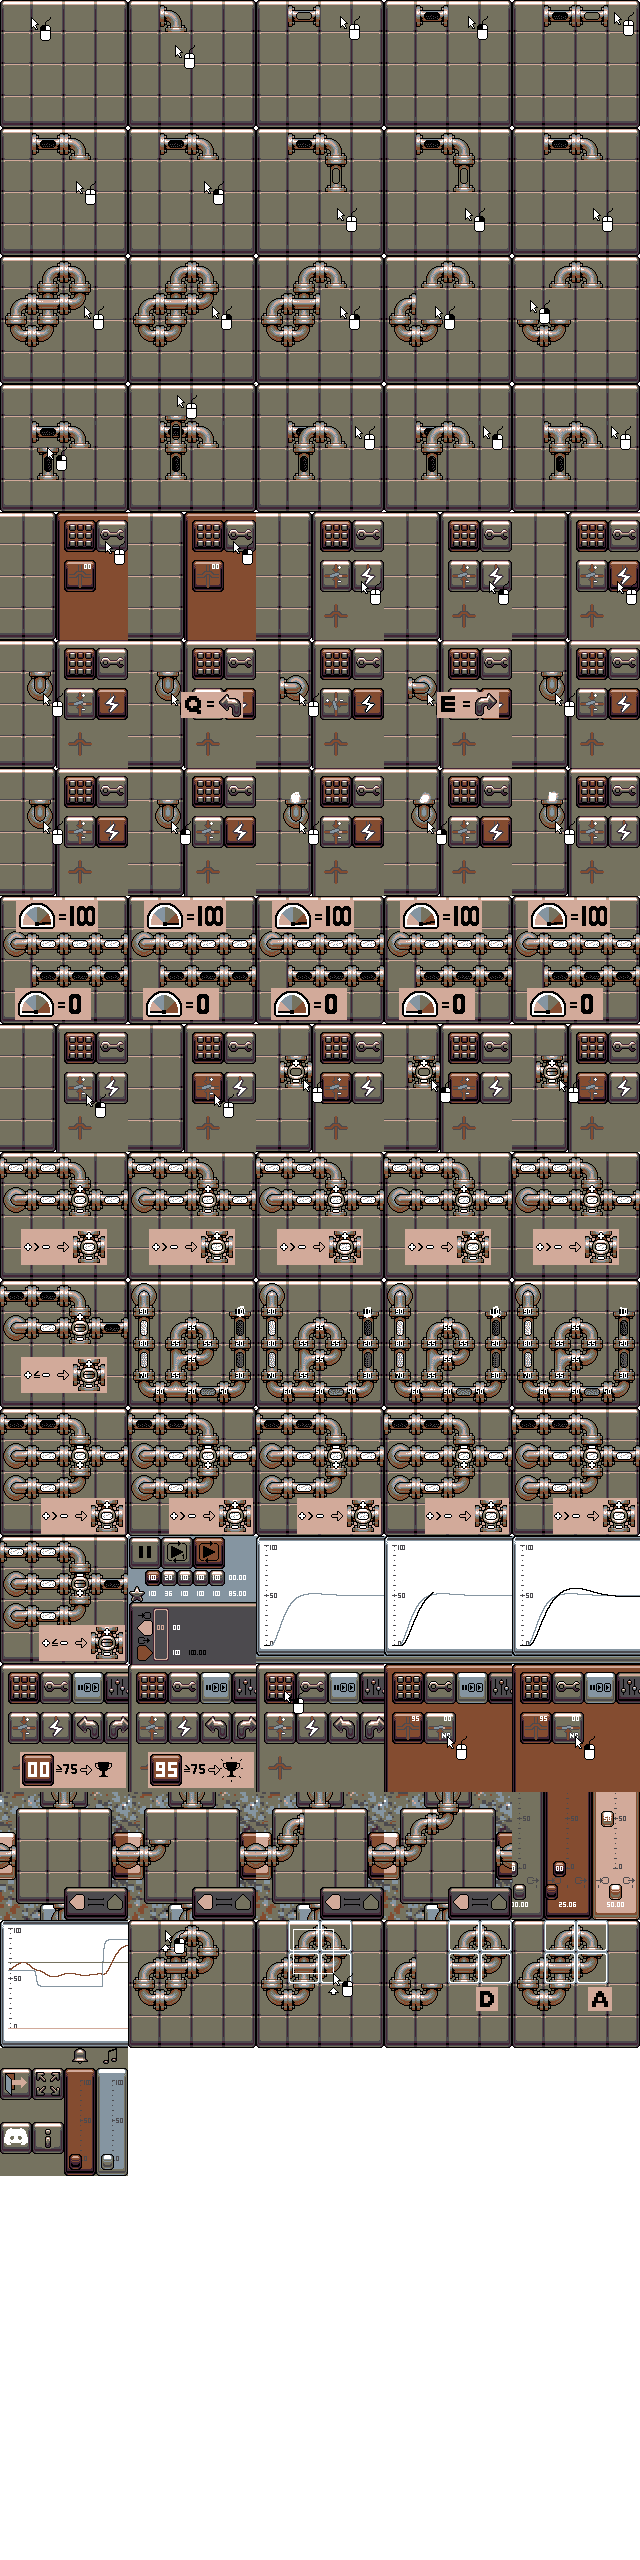
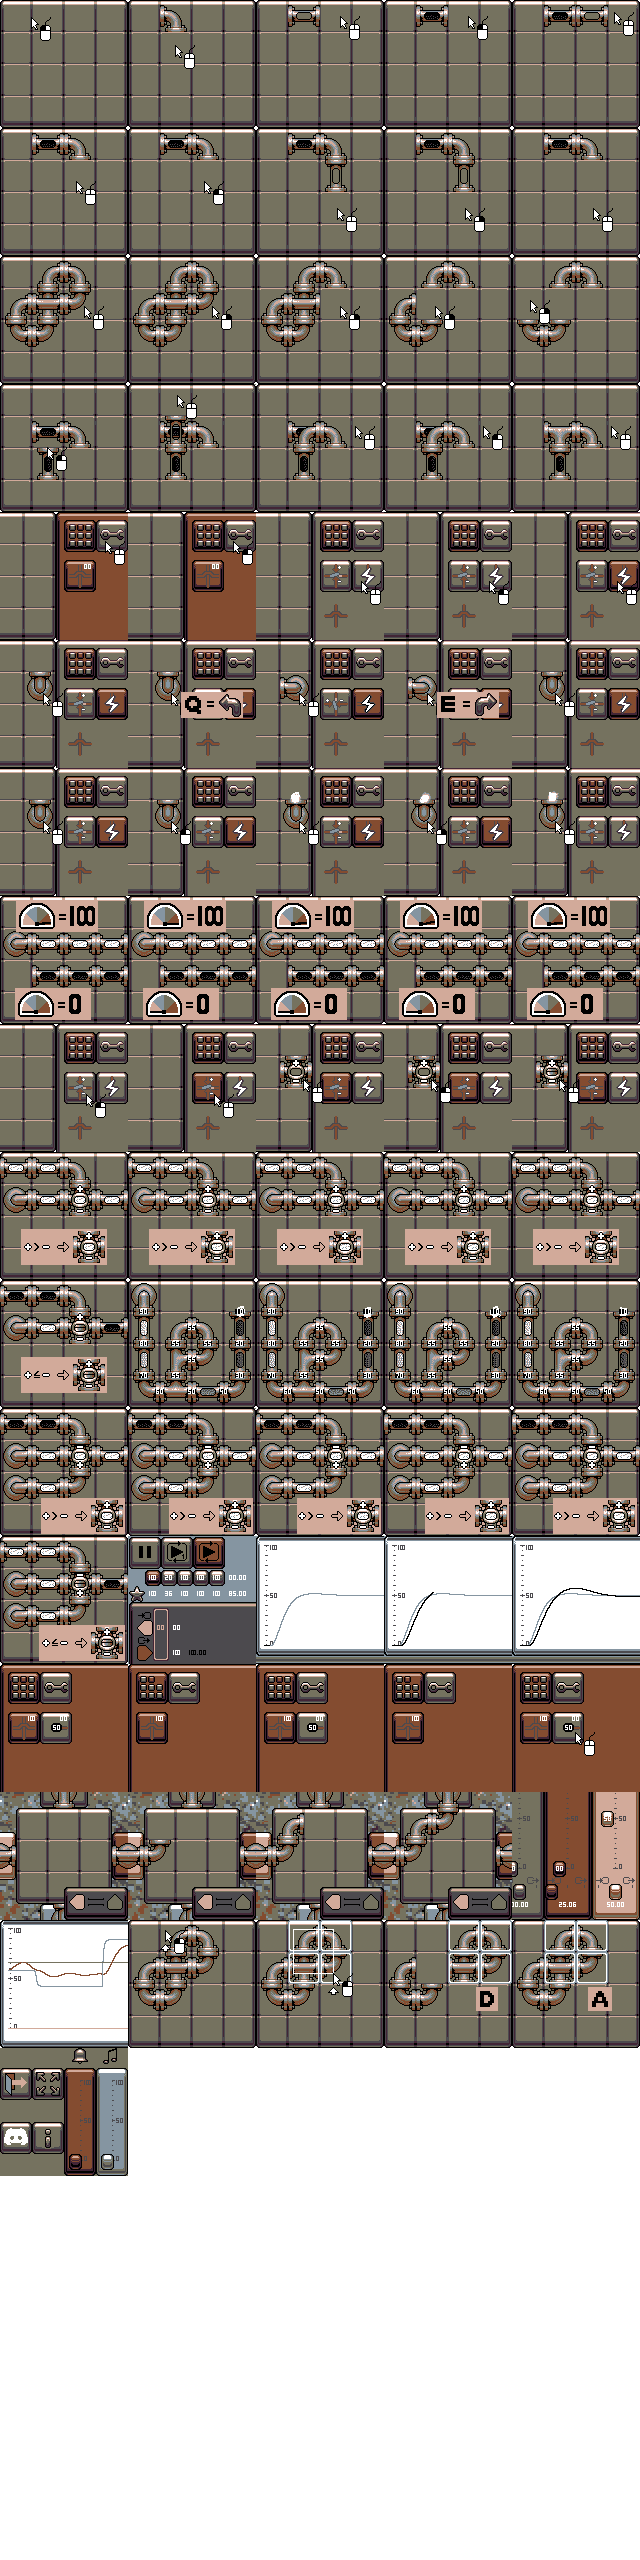
Rework scores and new dialogue

Changed region(s): [[0.0, 0.625, 0.8125, 0.7188], [0.875, 0.6562, 1.0, 0.6875]]

diff --git a/Level.cpp b/Level.cpp
@@ -399,7 +399,7 @@ void Level::init_tests(SaveObjectMap* omap)
             NEW_POINT(  0,100,  0,  0);
             break;
 
-        case 7:                                                             // op amp
+        case 7:                                                             // Comparator
             name = "Comparator";
             connection_mask = CONMASK_N | CONMASK_S | CONMASK_E;
             level_version = 10;
@@ -433,13 +433,10 @@ void Level::init_tests(SaveObjectMap* omap)
             NEW_POINT( 40,  0, 50,  0);
             NEW_TEST;
             NEW_POINT( 40,  0, 50,  0);
-            NEW_POINT( 55,100, 50,  0);
+            NEW_POINT( 58,100, 50,  0);
             NEW_TEST;
-            NEW_POINT( 55,100, 50,  0);
-            NEW_POINT( 55,  0, 60,  0);
-            NEW_TEST;
-            NEW_POINT( 55,  0, 60,  0);
-            NEW_POINT(100,100, 95,  0);
+            NEW_POINT( 58,100, 50,  0);
+            NEW_POINT( 55,  0, 62,  0);
             break;
 
         case 8:                                                                 // amp
@@ -473,10 +470,10 @@ void Level::init_tests(SaveObjectMap* omap)
             NEW_POINT(  0,100,  0, 70);
             NEW_TEST;
             NEW_POINT(  0,100,  0, 70);
-            NEW_POINT(  0,  0,  0, 40);
+            NEW_POINT(  0,  0,  0, 35);
             NEW_TEST;
-            NEW_POINT(  0,  0,  0, 40);
-            NEW_POINT(  0,100,  0, 60);
+            NEW_POINT(  0,  0,  0, 35);
+            NEW_POINT(  0,100,  0, 62);
             break;
 
         case 9:                                                        // div 2
@@ -744,7 +741,7 @@ void Level::init_tests(SaveObjectMap* omap)
             NEW_POINT(  0, 50, 50,100);
             NEW_TEST;
             NEW_POINT(  0, 50, 50,100);
-            NEW_POINT(  0,100,  0,100);
+            NEW_POINT(  0, 95,  0, 95);
             break;
 
 
@@ -980,7 +977,28 @@ void Level::init_tests(SaveObjectMap* omap)
         case 20:
             name = "Flow Detector";
             connection_mask = CONMASK_N | CONMASK_W | CONMASK_S | CONMASK_E;
-            level_version = 1;
+            substep_count = 15000;
+            level_version = 2;
+            circuit->force_element(XYPos(4,0), new CircuitElementPipe(CONNECTIONS_NWS));
+            circuit->force_element(XYPos(3,0), new CircuitElementPipe(CONNECTIONS_EW));
+            circuit->force_element(XYPos(2,0), new CircuitElementPipe(CONNECTIONS_EW));
+            circuit->force_element(XYPos(1,0), new CircuitElementPipe(CONNECTIONS_EW));
+            circuit->force_element(XYPos(0,0), new CircuitElementPipe(CONNECTIONS_ES));
+            circuit->force_element(XYPos(0,1), new CircuitElementValve(DIRECTION_E));
+            circuit->force_element(XYPos(1,1), new CircuitElementSource(DIRECTION_W));
+            circuit->force_element(XYPos(0,2), new CircuitElementPipe(CONNECTIONS_NS));
+            circuit->force_element(XYPos(0,3), new CircuitElementPipe(CONNECTIONS_NS));
+            circuit->force_element(XYPos(0,4), new CircuitElementPipe(CONNECTIONS_NS_WE));
+            circuit->force_element(XYPos(0,5), new CircuitElementPipe(CONNECTIONS_NS));
+            circuit->force_element(XYPos(0,6), new CircuitElementPipe(CONNECTIONS_NS));
+            circuit->force_element(XYPos(0,7), new CircuitElementValve(DIRECTION_E));
+            circuit->force_element(XYPos(1,7), new CircuitElementSource(DIRECTION_W));
+            circuit->force_element(XYPos(0,8), new CircuitElementPipe(CONNECTIONS_NE));
+            circuit->force_element(XYPos(1,8), new CircuitElementPipe(CONNECTIONS_EW));
+            circuit->force_element(XYPos(2,8), new CircuitElementPipe(CONNECTIONS_EW));
+            circuit->force_element(XYPos(3,8), new CircuitElementPipe(CONNECTIONS_EW));
+            circuit->force_element(XYPos(4,8), new CircuitElementPipe(CONNECTIONS_NWS));
+
             NEW_TEST;// N   E   S   W
             NEW_POINT(100,  0,  0,  0);
             NEW_TEST;
@@ -1014,6 +1032,9 @@ void Level::init_tests(SaveObjectMap* omap)
             NEW_POINT(100,  0,  0,  0);
             NEW_POINT(100,  0,100,  0);
             NEW_POINT(100,  0,  0,  0);
+            NEW_TEST;
+            NEW_POINT_F(  0,100,  0,  0, 50, 50, 50, 50);
+            NEW_POINT_F(  0,100,  0,  0, 50,  0, 50, 50);
             NEW_TEST;
             NEW_POINT(100,  0,  0, 70);
             NEW_POINT(100,  0,100, 70);
@@ -1228,7 +1249,7 @@ void Level::advance(unsigned ticks)
 
         for (int p = 0; p < 4; p++)
         {
-            if ((((connection_mask >> p) & 1) && p != tests[test_index].tested_direction) || (monitor_state == MONITOR_STATE_PAUSE))
+            if ((((connection_mask >> p) & 1)) || (monitor_state == MONITOR_STATE_PAUSE))
                 ports[p].apply(current_simpoint.values[p], current_simpoint.force[p]);
         }
         circuit->sim_pre(PressureAdjacent(ports[0], ports[1], ports[2], ports[3]));
@@ -1253,16 +1274,7 @@ void Level::advance(unsigned ticks)
                 if (sim_point_index == tests[test_index].sim_points.size() - 1)
                 {
                     Direction p = tests[test_index].tested_direction;
-                    Pressure score = percent_as_pressure(25) - abs(percent_as_pressure(current_simpoint.values[p]) - ports[p].value) * 100;
-                    if (score < 0)
-                        score /= 2;
-                    score += percent_as_pressure(25);
-                    if (score < 0)
-                        score /= 2;
-                    score += percent_as_pressure(25);
-                    if (score < 0)
-                        score /= 2;
-                    score += percent_as_pressure(25);
+                    Pressure score = percent_as_pressure(100) - abs(percent_as_pressure(current_simpoint.values[p]) - ports[p].value) * (100 / 5);
                     if (score < 0)
                         score = 0;
                     tests[test_index].last_score = score;
@@ -1314,12 +1326,12 @@ void Level::select_test(unsigned t)
 void Level::update_score(bool fin)
 {
     unsigned test_count = tests.size();
-    Pressure score = 0;
+    Pressure score = percent_as_pressure(100);
     for (unsigned i = 0; i < test_count; i++)
     {
-        score += tests[i].last_score;
+        if (tests[i].last_score < score)
+            score = tests[i].last_score;
     }
-    score /= test_count;
     last_score = score;
     if ((score > best_score || !best_design) && fin)
     {
@@ -1427,7 +1439,7 @@ bool LevelSet::is_playable(unsigned level)
         return (levels[level] != NULL);
     for (int i = 0; i < level; i++)
     {
-        if (levels[i]->best_score < percent_as_pressure(75))
+        if (levels[i]->best_score <= percent_as_pressure(0))
             return false;
     }
     return true;
@@ -1439,7 +1451,7 @@ int LevelSet::top_playable()
         return -1;
     for (int i = 0; i < LEVEL_COUNT; i++)
     {
-        if (levels[i]->best_score < percent_as_pressure(75))
+        if (levels[i]->best_score <= percent_as_pressure(0))
             return i;
     }
     return LEVEL_COUNT - 1;

diff --git a/GameState.cpp b/GameState.cpp
@@ -33,10 +33,13 @@
 
 static void DisplayWebsite(const char* url)
 {
+#ifdef __linux__
+    char buf[1024];
+    snprintf(buf, sizeof(buf), "xdg-open %s", url);
+    system(buf);
+#else
     SDL_OpenURL(url);
-//    char buf[1024];
-//    snprintf(buf, sizeof(buf), "xdg-open %s", url);
-//    system(buf);
+#endif
 
 }
 
@@ -1707,7 +1710,7 @@ void GameState::render()
             pages[] =
             {
                 {XYPos(0,14), 4, 1, "In the level select menu, the bottom panel describes the design requirements. Each design has four ports and the requirements state the expected output in terms of other ports. Each port has a colour identifier. Click on the requirements to recieve a hint."},
-                {XYPos(0,13),5,0.5, "Once you achieve a score of 75 or more, the next design becomes available. You can always come back to refine your solution.\n\nPress the pipe button below to continue the tutorial. You can return to the help by pressing F1."},
+                {XYPos(0,13),5,0.5, "Once you pass all the tests, the next design becomes available. You can always come back to refine your solution.\n\nPress the pipe button below to continue the tutorial. You can return to the help by pressing F1."},
                 {XYPos(0,0), 10, 1, "Pipes can be laid down by either left mouse button dragging the pipe from the source to the desination, or by clicking left mouse button to extend the pipe in the direction of the mouse. Right click to cancel pipe laying mode."},
                 {XYPos(0,2),  5, 1, "Hold the right mouse button to delete pipes and other elements."},
                 {XYPos(0,4), 15, 1, "The build menu allows you to add components into your design. Select the steam inlet component and hover over your design. The arrow buttons change the orientation. This can also be done using keys Q and E or the mouse scroll wheel. Clicking the left mouse button will place the component. Right click to exit steam inlet placing mode."},
@@ -1867,6 +1870,8 @@ void GameState::mouse_click_in_grid()
 {
     XYPos pos = (mouse - grid_offset) / scale;
     XYPos grid = pos / 32;
+    if (pos.x < 0) grid.x--;
+    if (pos.y < 0) grid.y--;
 
     if (mouse_state == MOUSE_STATE_NONE && !keyboard_ctrl && !keyboard_shift)
     {
@@ -1885,6 +1890,7 @@ void GameState::mouse_click_in_grid()
             }
         }
     }
+
     if (current_circuit_is_read_only)
     {
         XYPos pos = mouse/scale;
@@ -2958,29 +2964,7 @@ bool GameState::events()
                     }
                     else if (mouse.x < panel_offset.x)
                     {
-                        if (e.button.clicks == 2)
-                        {
-                            XYPos pos = (mouse - grid_offset) / scale;
-                            XYPos grid = pos / 32;
-                            if (grid.inside(XYPos(9,9)))
-                            {
-                                unsigned level_index;
-                                Circuit* sub_circuit = current_circuit->elements[grid.y][grid.x]->get_subcircuit(level_index);
-                                if (sub_circuit)
-                                {
-                                    inspection_stack.push_back(std::make_pair(level_index, sub_circuit));
-                                    current_circuit = sub_circuit;
-                                    current_circuit_is_inspected_subcircuit = true;
-                                    set_current_circuit_read_only();
-
-                                    mouse_state = MOUSE_STATE_NONE;
-                                    break;
-                                }
-                            }
-                            mouse_click_in_grid();
-                        }
-                        else
-                            mouse_click_in_grid();
+                        mouse_click_in_grid();
                     }
                     else
                     {

diff --git a/Circuit.cpp b/Circuit.cpp
@@ -108,13 +108,13 @@ SDL_Rect CircuitElementPipe::getimage_bg(void)
     if (connections == CONNECTIONS_NS)
     {
         int x = (pressure_as_percent(pressure) * (48 - 6)) / 101;
-        unsigned offset = unsigned(moved_pos / 10) % (48 - 14);
+        unsigned offset = unsigned(moved_pos / 50) % (48 - 14);
         return SDL_Rect{256 + x, 208 + int(offset), 6, 14};
     }
     if (connections == CONNECTIONS_EW || connections == CONNECTIONS_NS_WE)
     {
         int y = (pressure_as_percent(pressure) * (48 - 6)) / 101;
-        unsigned offset = unsigned(moved_pos / 100) % (48 - 14);
+        unsigned offset = unsigned(moved_pos / 50) % (48 - 14);
         return SDL_Rect{304 + int(offset), 208 + y, 14, 6};
     }
     return SDL_Rect{0, 0, 0, 0};
@@ -288,14 +288,14 @@ SDL_Rect CircuitElementValve::getimage_bg(void)
     if (direction == DIRECTION_E || direction == DIRECTION_W)
     {
         int x = (pressure_as_percent(pressure) * (48 - 6)) / 101;
-        unsigned offset = unsigned(moved_pos / 10) % (48 - 14);
+        unsigned offset = unsigned(moved_pos / 50) % (48 - 14);
         return SDL_Rect{256 + x, 208 + int(offset), 6, 14};
     }
     else
     {
         
         int y = (pressure_as_percent(pressure) * (48 - 6)) / 101;
-        unsigned offset = unsigned(moved_pos / 100) % (48 - 14);
+        unsigned offset = unsigned(moved_pos / 50) % (48 - 14);
         return SDL_Rect{304 + int(offset), 208 + y, 14, 6};
     }
 }
